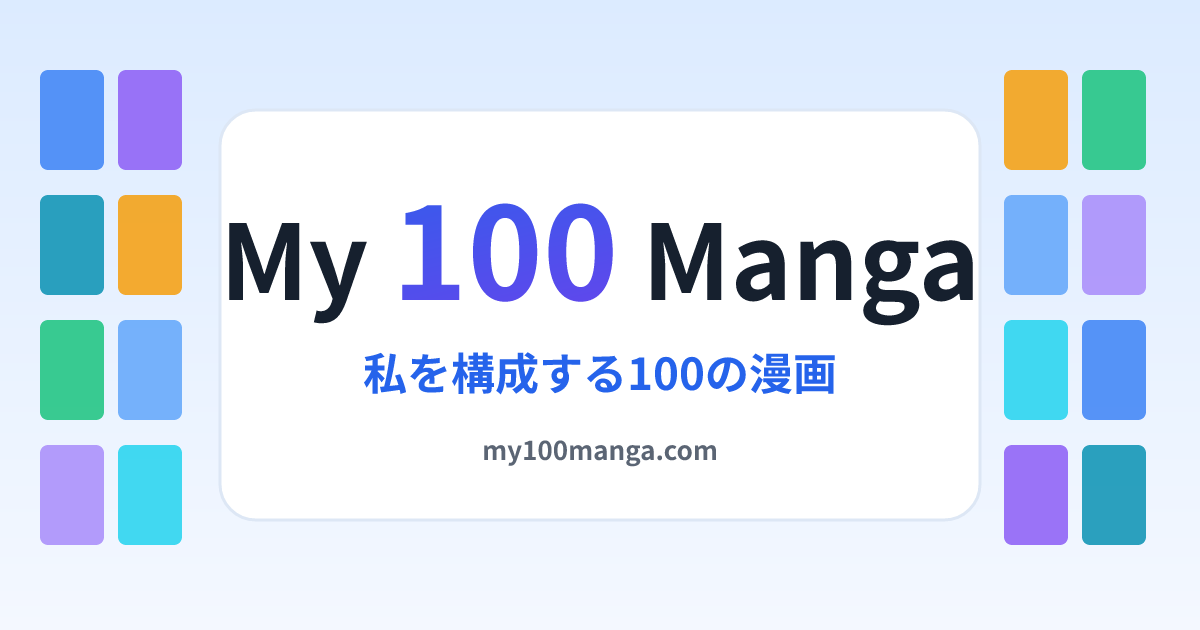
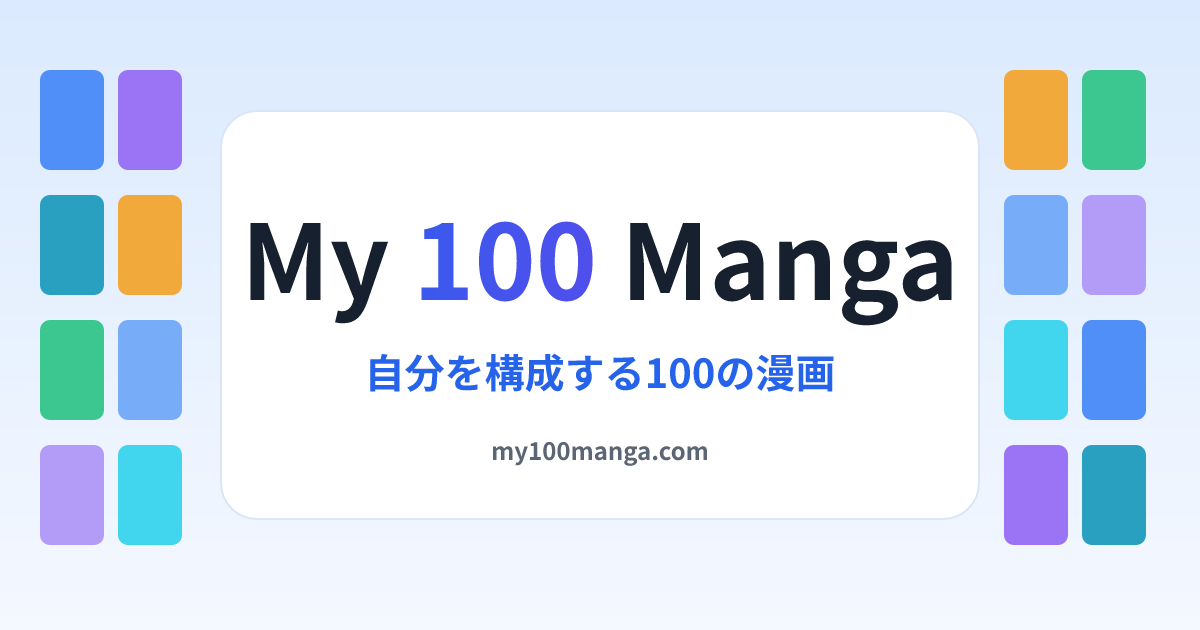
feat: tidier footer, top-right modal buttons, back-to-top, wording updates
- footer: short link row (books guide / terms / privacy / operator), source
  line links to /about, small API credits + local-data reset, "© 2026 My 100
  Manga @rela1470"; list/ranking links removed (they live in the header)
- PC-only back-to-top button (bottom right, appears after scrolling)
- volume detail: close / add-to-list moved to a sticky top-right header;
  search modal: close moved to the top right, bottom bar only when needed
- top page: the public-list count links to /lists
- 「私を構成する」→「自分を構成する」 everywhere, default OGP image redrawn
- MADB provider: 文化庁 → 独立行政法人国立美術館 国立アートリサーチセンター

Changed region(s): [[0.185, 0.3016, 0.8325, 0.5429], [0.3083, 0.5429, 0.7092, 0.6333], [0.4008, 0.6937, 0.6167, 0.754]]

diff --git a/public/styles.css b/public/styles.css
@@ -426,6 +426,8 @@ button.danger:hover { background: rgba(239, 68, 68, .12); filter: none; }
 }
 .stat-card .n { font-size: 26px; font-weight: 800; color: var(--accent); }
 .stat-card .k { font-size: 12px; color: var(--muted); margin-top: 2px; }
+a.stat-card.stat-link { display: block; color: inherit; text-decoration: none; }
+a.stat-card.stat-link .k::after { content: " ›"; }
 /* 日付などの長い値を並べる stat-grid（管理画面の売上ランキング） */
 .stat-grid.compact .n { font-size: 18px; }
 /* 管理画面の売上ランキング: 今日の分が未取得（Cron 停止の疑い） */
@@ -1253,6 +1255,23 @@ html:has(.modal-backdrop.open) { overflow: hidden; }
 }
 .modal h2 { margin: 0 0 12px; font-size: 19px; font-weight: 800; }
 .modal .row { display: flex; gap: 8px; margin-bottom: 12px; }
+/* 見出しの右に操作ボタンを置くモーダル（本の詳細 #volModal）。背景（.modal-backdrop）が
+   スクロールするので、見出しの行ごと上に貼り付けて、長い本文でもボタンを押せるようにする。 */
+.modal-head {
+  position: sticky; top: 0; z-index: 2;
+  display: flex; align-items: flex-start; gap: 12px;
+  margin: -22px -22px 12px; padding: 16px 22px 12px;
+  background: var(--panel); border-bottom: 1px solid var(--border);
+  border-radius: var(--radius-lg) var(--radius-lg) 0 0;
+}
+.modal-head h2 { flex: 1; min-width: 0; margin: 0; padding-top: 6px; }
+.modal-head-actions { flex: none; display: flex; gap: 8px; }
+@media (max-width: 480px) {
+  .modal-head { flex-wrap: wrap; }
+  .modal-head-actions { order: -1; width: 100%; justify-content: flex-end; }
+  .modal-head h2 { padding-top: 0; }
+}
+
 .modal input[type="text"], .modal textarea {
   width: 100%;
   background: var(--panel-2);
@@ -1302,6 +1321,11 @@ html:has(.modal-backdrop.open) { overflow: hidden; }
 }
 .modal-full .results { flex: 1; max-height: none; min-height: 0; }
 .modal-full .modal-actions { flex: none; }
+/* 検索モーダルの見出し行（タイトル + 右上の閉じる）。下の操作欄は表紙取得ボタンがあるときだけ出す。 */
+.search-head { flex: none; display: flex; align-items: flex-start; gap: 12px; margin-bottom: 12px; }
+.search-head h2 { flex: 1; min-width: 0; margin: 0; padding-top: 6px; }
+.search-head button { flex: none; }
+#searchModal .modal-actions:has(.search-actions:empty) { display: none; }
 @media (max-width: 560px) {
   .modal-full { padding: 0; }
   .modal-full .modal {
@@ -1500,22 +1524,51 @@ button.x-post:hover { background: #222; border-color: #222; }
 footer.site {
   text-align: center;
   color: var(--muted);
+  font-size: 12px;
+  line-height: 1.7;
+  margin-top: 32px;
+  padding: 20px 16px 28px;
+  border-top: 1px solid var(--border);
+}
+footer.site p { margin: 6px 0 0; }
+footer.site .foot-links {
+  display: flex; flex-wrap: wrap; justify-content: center; gap: 4px 18px;
   font-size: 13px;
-  padding: 24px 12px;
 }
-footer.site .aff-disclosure { font-size: 11px; margin: 6px 0 0; opacity: .8; }
+footer.site .foot-links a { color: var(--text); text-decoration: none; }
+footer.site .foot-links a:hover { color: var(--accent); text-decoration: underline; }
+footer.site .aff-disclosure { margin-top: 10px; font-size: 11px; }
+footer.site .foot-source { margin-top: 10px; font-size: 11px; }
+footer.site .foot-source a { color: inherit; text-decoration: none; }
+footer.site .foot-source a:hover { color: var(--accent); text-decoration: underline; }
 /* 楽天・Yahoo! の公式クレジット（src/footer.ts。中身の HTML は規定のまま変えないので外側から整える）。 */
-footer.site .foot-credits { font-size: 12px; margin: 8px 0 0; color: var(--muted); text-align: center; line-height: 1.8; }
-footer.site .foot-credits a { color: var(--accent-2); }
-footer.site .foot-links { font-size: 12px; margin: 8px 0 0; }
-footer.site .foot-links a { color: var(--muted); }
-footer.site .foot-reset { margin: 10px 0 0; }
-footer.site .foot-reset button {
-  background: none; border: none; padding: 0;
-  color: var(--muted); font-size: 11px; text-decoration: underline;
-  cursor: pointer; opacity: .8;
+footer.site .foot-credits { font-size: 11px; }
+footer.site .foot-credits a { color: var(--muted); }
+footer.site .foot-credits button {
+  /* 左の間隔は Yahoo! のスニペットの span（margin 15px、改変不可）が作るので、ボタン側には付けない。 */
+  background: none; border: none; padding: 0; margin: 0;
+  color: var(--muted); font: inherit; text-decoration: underline; cursor: pointer;
 }
-footer.site .foot-reset button:hover { opacity: 1; }
+footer.site .foot-credits button:hover { color: var(--danger); }
+footer.site .foot-copy { margin-top: 10px; font-size: 11px; opacity: .8; }
+
+/* 右下の「ページの先頭へ」ボタン（src/footer.ts）。PC（幅が広くマウス操作）だけ出す。 */
+.to-top { display: none; }
+@media (min-width: 768px) and (hover: hover) {
+  .to-top {
+    display: flex; align-items: center; justify-content: center;
+    position: fixed; right: 24px; bottom: 24px; z-index: 30;
+    width: 44px; height: 44px; padding: 0; border-radius: 50%;
+    border: 1px solid var(--border); background: #fff; color: var(--accent);
+    box-shadow: 0 4px 14px rgba(22, 32, 46, .12);
+    cursor: pointer; opacity: 0; visibility: hidden; transform: translateY(8px);
+    transition: opacity .2s, transform .2s, visibility .2s;
+  }
+  .to-top.show { opacity: 1; visibility: visible; transform: none; }
+  .to-top:hover { background: var(--accent); color: #fff; border-color: var(--accent); }
+  .to-top:focus-visible { outline: 3px solid rgba(37, 99, 235, .4); outline-offset: 2px; }
+}
+html:has(.modal-backdrop.open) .to-top { display: none; }
 
 /* static content pages (about など) */
 .prose {

diff --git a/public/index.html b/public/index.html
@@ -7,12 +7,12 @@
        page_location やリファラとして読む前にアドレスバーから消す。token は sessionStorage
        （無理ならメモリ）へ移し、app.js init() がそこから読む。?edit= は残すので再読み込みでも編集を続けられる。 -->
   <script>(function(){try{var u=new URL(location.href),t=u.searchParams.get("t"),s=u.searchParams.get("edit");if(!t)return;if(s){window.__EDIT_TOKEN__={slug:s,t:t};try{sessionStorage.setItem("my100manga_edit_token",JSON.stringify({slug:s,t:t}));}catch(e){}}u.searchParams.delete("t");history.replaceState(history.state,"",u.pathname+u.search+u.hash);}catch(e){}})();</script>
-  <title>My 100 Manga - 私を構成する100の漫画</title>
+  <title>My 100 Manga - 自分を構成する100の漫画</title>
   <meta name="description" content="あなたのおすすめ漫画100作品を選んでカードにし、URLで共有できるサイトです。">
   <link rel="canonical" href="https://my100manga.com/">
   <meta property="og:type" content="website">
   <meta property="og:site_name" content="My 100 Manga">
-  <meta property="og:title" content="My 100 Manga - 私を構成する100の漫画">
+  <meta property="og:title" content="My 100 Manga - 自分を構成する100の漫画">
   <meta property="og:description" content="あなたのおすすめ漫画100作品を選んでカードにし、URLで共有できるサイトです。">
   <meta property="og:url" content="https://my100manga.com/">
   <meta property="og:image" content="https://my100manga.com/og-default.png">
@@ -31,7 +31,7 @@
   <!--GTM_BODY-->
   <header class="site">
     <h1>My <span class="accent">100</span> Manga</h1>
-    <p class="tagline">私を構成する100の漫画を選んで、URLで共有しよう</p>
+    <p class="tagline">自分を構成する100の漫画を選んで、URLで共有しよう</p>
     <!--HEADER_LINKS-->
   </header>
 
@@ -99,14 +99,17 @@
   <!-- add / search modal -->
   <div class="modal-backdrop modal-full" id="searchModal">
     <div class="modal">
-      <h2 id="searchTitle">作品を追加</h2>
+      <!-- 閉じるは右上（巻一覧が長くても下まで行かずに閉じられるよう） -->
+      <div class="search-head">
+        <h2 id="searchTitle">作品を追加</h2>
+        <button id="cancelSearch">閉じる</button>
+      </div>
       <div class="search-subtitle" id="searchSubtitle" hidden></div>
       <div class="vol-bar search-bar" id="searchBar" hidden></div>
       <div class="spinner" id="searchSpinner" style="display:none">検索中...</div>
       <div class="results" id="results"></div>
       <div class="modal-actions">
         <div class="search-actions" id="searchActions"></div>
-        <button id="cancelSearch">閉じる</button>
       </div>
     </div>
   </div>
@@ -114,7 +117,14 @@
   <!-- volume detail modal: 巻一覧で本を押したときに詳細を見せ、「リストに追加」で初めて追加する -->
   <div class="modal-backdrop" id="volModal">
     <div class="modal">
-      <h2 id="vTitle"></h2>
+      <!-- 操作ボタンは右上（あらすじ・購入リンクが長くてもスクロールせずに押せるよう、上に貼り付ける） -->
+      <div class="modal-head">
+        <h2 id="vTitle"></h2>
+        <div class="modal-head-actions">
+          <button id="vClose">閉じる</button>
+          <button class="primary" id="vAdd">リストに追加</button>
+        </div>
+      </div>
       <div class="detail-body">
         <div id="vCoverBox"></div>
         <div class="dinfo">
@@ -140,11 +150,6 @@
         <div class="buy-group" id="vBuyEbook"></div>
         <div class="buy-group" id="vBuyUsed"></div>
         <p class="buy-note">[AD]絶版でも電子書籍なら手に入ることがあります。リンクは各社アフィリエイトを含みます。</p>
-      </div>
-      <div class="modal-actions">
-        <div style="flex:1"></div>
-        <button id="vClose">閉じる</button>
-        <button class="primary" id="vAdd">リストに追加</button>
       </div>
     </div>
   </div>

diff --git a/src/footer.ts b/src/footer.ts
@@ -35,18 +35,43 @@ const RESET_SCRIPT =
   `try{Object.keys(localStorage).forEach(function(k){if(k.indexOf("my100manga_")===0)localStorage.removeItem(k);});}catch(e){}` +
   `location.reload();});})();</script>`;
 
+// 並び: ページへのリンク → 出典（MADB・書影の取得元）→ API の公式クレジットと端末データの初期化。
+// 下 2 段は小さく薄く出す（必要な表記だが目立たせない）。
+const FOOT_LINKS = [
+  { href: "/books-guide", label: "追加できる本" },
+  { href: "/terms", label: "利用規約" },
+  { href: "/privacy", label: "プライバシーポリシー" },
+  { href: "/operator", label: "運営者" },
+];
+
+// 右下の「ページの先頭へ」ボタン（PC のみ。表示条件は styles.css の .to-top）。少しスクロール
+// したら出す。scroll は passive で拾い、状態が変わったときだけクラスを付け外しする。
+const TO_TOP =
+  `<button type="button" class="to-top" id="to-top" aria-label="ページの先頭へ" title="ページの先頭へ">` +
+  `<svg viewBox="0 0 24 24" width="22" height="22" aria-hidden="true"><path d="M12 5l-7 7m7-7l7 7M12 5v14" ` +
+  `fill="none" stroke="currentColor" stroke-width="2.4" stroke-linecap="round" stroke-linejoin="round"/></svg></button>` +
+  `<script>(function(){var b=document.getElementById("to-top");if(!b)return;var on=false;` +
+  `function u(){var v=window.scrollY>400;if(v!==on){on=v;b.classList.toggle("show",v);}}` +
+  `window.addEventListener("scroll",u,{passive:true});u();` +
+  `b.addEventListener("click",function(){var r=matchMedia("(prefers-reduced-motion: reduce)").matches;` +
+  `window.scrollTo({top:0,behavior:r?"auto":"smooth"});});})();</script>`;
+
 export function footerHtml(withAff = false): string {
   const aff = withAff
     ? `<p class="aff-disclosure">当サイトはアフィリエイト広告（PR）を利用しています（<a href="/about">詳細</a>）。</p>`
     : "";
+  const links = FOOT_LINKS.map((l) => `<a href="${l.href}">${l.label}</a>`).join("");
   return (
     `<footer class="site">` +
-    `<p>データ提供: メディア芸術データベース（文化庁）｜ 書影: 楽天ブックス・楽天市場・Yahoo!ショッピング ｜ My 100 Manga / @rela1470</p>` +
+    `<nav class="foot-links" aria-label="サイト情報">${links}</nav>` +
     aff +
-    `<p class="foot-links"><a href="/lists">みんなのリスト</a> ｜ <a href="/ranking">人気ランキング</a> ｜ <a href="/sales-ranking">売上ランキング</a> ｜ <a href="/books-guide">追加できる本について</a> ｜ <a href="/about">利用ソース・アフィリエイトについて</a> ｜ <a href="/terms">利用規約</a> ｜ <a href="/privacy">プライバシーポリシー</a> ｜ <a href="/operator">運営者について</a></p>` +
-    `<p class="foot-reset"><button type="button" id="reset-local-data">この端末のデータを初期化</button></p>` +
-    `<p class="foot-credits">${RAKUTEN_CREDIT}\n${YAHOO_CREDIT}</p>` +
+    // 出典の行そのものを /about（利用ソース・広告の説明）へのリンクにする（リンク一覧には別に置かない）。
+    `<p class="foot-source"><a href="/about">データ: メディア芸術データベース（国立アートリサーチセンター）／ 書影: 楽天ブックス・楽天市場・Yahoo!ショッピング</a></p>` +
+    `<p class="foot-credits">${RAKUTEN_CREDIT}\n${YAHOO_CREDIT}` +
+    `<button type="button" id="reset-local-data">この端末のデータを初期化</button></p>` +
+    `<p class="foot-copy">© 2026 My 100 Manga @rela1470</p>` +
     `</footer>` +
+    TO_TOP +
     RESET_SCRIPT
   );
 }

diff --git a/public/about.html b/public/about.html
@@ -31,7 +31,7 @@
   <div class="wrap">
     <article class="prose">
       <p class="lead">
-        My 100 Manga は「私を構成する100の漫画」を選んでカードにし、URLで共有できるサイトです。
+        My 100 Manga は「自分を構成する100の漫画」を選んでカードにし、URLで共有できるサイトです。
         作品データや表紙画像は外部の公開データベース・APIから取得しています。
         また、<strong>当サイトはアフィリエイト広告（PR）を利用しています</strong>。作品詳細の購入リンクは広告です。
         このページではその利用ソースとアフィリエイトについて説明します。
@@ -45,7 +45,7 @@
         作品の検索、シリーズ→巻→ISBN の一覧に利用しています。
       </p>
       <ul>
-        <li>提供: 文化庁「メディア芸術データベース」</li>
+        <li>提供: 独立行政法人国立美術館 国立アートリサーチセンター「メディア芸術データベース」</li>
         <li>サイト: <a href="https://mediaarts-db.artmuseums.go.jp/" target="_blank" rel="noopener">https://mediaarts-db.artmuseums.go.jp/</a></li>
         <li>データセット: <a href="https://github.com/mediaarts-db/dataset" target="_blank" rel="noopener">mediaarts-db/dataset</a>（マンガ単行本・シリーズの JSON-LD）</li>
         <li id="madb-meta" class="src-meta" hidden></li>
@@ -57,7 +57,7 @@
       </p>
       <p>
         当サイトに表示される作品データは、MADB のデータをもとに、当サイトでシリーズの結合・分離、著者名の正規化、巻の補完、表紙画像の付与などの加工をしたものです。
-        加工後のデータの内容について、文化庁およびメディア芸術データベースは責任を負いません。
+        加工後のデータの内容について、国立アートリサーチセンターおよびメディア芸術データベースは責任を負いません。
       </p>
       <p>リストに追加できる本・できない本は「<a href="/books-guide">追加できる本について</a>」をご覧ください。</p>
 

diff --git a/public/ranking.html b/public/ranking.html
@@ -4,12 +4,12 @@
   <meta charset="utf-8">
   <meta name="viewport" content="width=device-width, initial-scale=1">
   <title>人気ランキング | My 100 Manga</title>
-  <meta name="description" content="My 100 Manga で「私を構成する100の漫画」に多く選ばれている漫画の巻ランキング。累計・過去30日・過去7日・過去24時間で集計しています。">
+  <meta name="description" content="My 100 Manga で「自分を構成する100の漫画」に多く選ばれている漫画の巻ランキング。累計・過去30日・過去7日・過去24時間で集計しています。">
   <link rel="canonical" href="https://my100manga.com/ranking">
   <meta property="og:type" content="website">
   <meta property="og:site_name" content="My 100 Manga">
   <meta property="og:title" content="人気ランキング | My 100 Manga">
-  <meta property="og:description" content="My 100 Manga で「私を構成する100の漫画」に多く選ばれている漫画の巻ランキング。累計・過去30日・過去7日・過去24時間で集計しています。">
+  <meta property="og:description" content="My 100 Manga で「自分を構成する100の漫画」に多く選ばれている漫画の巻ランキング。累計・過去30日・過去7日・過去24時間で集計しています。">
   <meta property="og:url" content="https://my100manga.com/ranking">
   <meta property="og:image" content="https://my100manga.com/og-default.png">
   <meta property="og:image:width" content="1200">
@@ -37,7 +37,7 @@
       <a href="/sales-ranking">売上（楽天ブックス）</a>
     </nav>
     <p class="lead">
-      「私を構成する100の漫画」に選ばれている巻を、選んだ人数で集計したランキングです。表紙を押すと本の詳細（あらすじ・購入リンク）を開けます。
+      「自分を構成する100の漫画」に選ばれている巻を、選んだ人数で集計したランキングです。表紙を押すと本の詳細（あらすじ・購入リンク）を開けます。
     </p>
 
     <div class="rank-tabs" id="tabs"></div>

diff --git a/public/lists.html b/public/lists.html
@@ -4,12 +4,12 @@
   <meta charset="utf-8">
   <meta name="viewport" content="width=device-width, initial-scale=1">
   <title>みんなのリスト | My 100 Manga</title>
-  <meta name="description" content="My 100 Manga で公開された「私を構成する100の漫画」の一覧。新着順と、今日・7日間・30日間・累計のアクセス数順で見られます。">
+  <meta name="description" content="My 100 Manga で公開された「自分を構成する100の漫画」の一覧。新着順と、今日・7日間・30日間・累計のアクセス数順で見られます。">
   <link rel="canonical" href="https://my100manga.com/lists">
   <meta property="og:type" content="website">
   <meta property="og:site_name" content="My 100 Manga">
   <meta property="og:title" content="みんなのリスト | My 100 Manga">
-  <meta property="og:description" content="My 100 Manga で公開された「私を構成する100の漫画」の一覧。新着順と、今日・7日間・30日間・累計のアクセス数順で見られます。">
+  <meta property="og:description" content="My 100 Manga で公開された「自分を構成する100の漫画」の一覧。新着順と、今日・7日間・30日間・累計のアクセス数順で見られます。">
   <meta property="og:url" content="https://my100manga.com/lists">
   <meta property="og:image" content="https://my100manga.com/og-default.png">
   <meta property="og:image:width" content="1200">

diff --git a/public/app.js b/public/app.js
@@ -130,15 +130,17 @@ async function loadSiteStats() {
     const res = await fetch("/api/site-stats");
     if (!res.ok) return;
     const stats = await res.json();
+    // href があるカードは押すとそのページへ（公開リスト → みんなのリスト）。
     const cards = [
       ["series", "シリーズ"],
       ["volumes", "巻(ISBN)"],
-      ["lists", "公開リスト"],
+      ["lists", "公開リスト", "/lists"],
     ];
     box.replaceChildren(
-      ...cards.map(([key, label]) => {
-        const card = document.createElement("div");
-        card.className = "stat-card";
+      ...cards.map(([key, label, href]) => {
+        const card = document.createElement(href ? "a" : "div");
+        card.className = href ? "stat-card stat-link" : "stat-card";
+        if (href) card.href = href;
         const n = document.createElement("div");
         n.className = "n";
         n.textContent = Number(stats[key] ?? 0).toLocaleString("ja-JP");

diff --git a/public/privacy.html b/public/privacy.html
@@ -31,7 +31,7 @@
   <div class="wrap">
     <article class="prose">
       <p class="lead">
-        My 100 Manga（以下「当サイト」）は、「私を構成する100の漫画」を選んでカードにし、URLで共有できるサイトです。
+        My 100 Manga（以下「当サイト」）は、「自分を構成する100の漫画」を選んでカードにし、URLで共有できるサイトです。
         当サイトは利用者のプライバシーを尊重し、以下の方針に基づいて情報を取り扱います。
         リストの作成にアカウント登録は不要で、氏名・住所・電話番号などを入力していただくことはありません
         （任意の Google ログインを利用した場合に受け取る情報は、下記のとおりです）。

diff --git a/public/terms.html b/public/terms.html
@@ -33,7 +33,7 @@
       <p class="lead">
         この利用規約（以下「本規約」）は、My 100 Manga（以下「当サイト」）が提供するサービス（以下「本サービス」）の
         利用条件を定めるものです。本サービスを利用する方（以下「利用者」）は、本規約に同意したうえでご利用ください。
-        当サイトはアカウント登録を必要とせず、「私を構成する100の漫画」を選んでカードにし、URLで共有できるサービスです。
+        当サイトはアカウント登録を必要とせず、「自分を構成する100の漫画」を選んでカードにし、URLで共有できるサービスです。
       </p>
 
       <h2>第1条（適用）</h2>

diff --git a/public/books-guide.html b/public/books-guide.html
@@ -38,7 +38,7 @@
       <h2>追加できる本</h2>
       <p>
         <span class="src-name">ISBN の付いた紙のマンガ単行本</span> が対象です。
-        作品・巻のデータは文化庁「メディア芸術データベース（MADB）」のマンガ単行本データを元にしています（詳しくは<a href="/about">利用ソースについて</a>）。
+        作品・巻のデータは国立アートリサーチセンター「メディア芸術データベース（MADB）」のマンガ単行本データを元にしています（詳しくは<a href="/about">利用ソースについて</a>）。
       </p>
       <ul>
         <li>MADB のデータは月に1回取り込んでいます。</li>

diff --git a/public/view.html b/public/view.html
@@ -18,7 +18,7 @@
   <!--GTM_BODY-->
   <header class="site">
     <h1><span class="owner-line" id="ownerLine" hidden><span class="owner-title" id="ownerTitle"></span><button class="report-flag" id="reportOwner" title="このユーザー名を通報"><span class="flag-icon">⚐</span><span class="flag-text">名前を通報</span></button></span><a class="site-logo" href="/">My <span class="accent">100</span> Manga</a></h1>
-    <p class="tagline" id="subtitle">私を構成する100の漫画</p>
+    <p class="tagline" id="subtitle">自分を構成する100の漫画</p>
     <!--HEADER_LINKS-->
   </header>
 

diff --git a/public/share-x.js b/public/share-x.js
@@ -16,7 +16,7 @@
   // 表示名が無いときは「私のMy 100 Manga」ではなくサイトの題名どおりの言い回しにする。
   // ハッシュタグ #my100manga は X は hashtags パラメータ、Threads/Bluesky/LINE は本文末尾に付ける。
   function shareText(owner) {
-    return owner ? `${owner}のMy 100 Manga` : "私を構成する100の漫画";
+    return owner ? `${owner}のMy 100 Manga` : "自分を構成する100の漫画";
   }
 
   // noCard: 画像を添付して投稿するとき用。?i=1 のページはリンクカードのメタタグを
